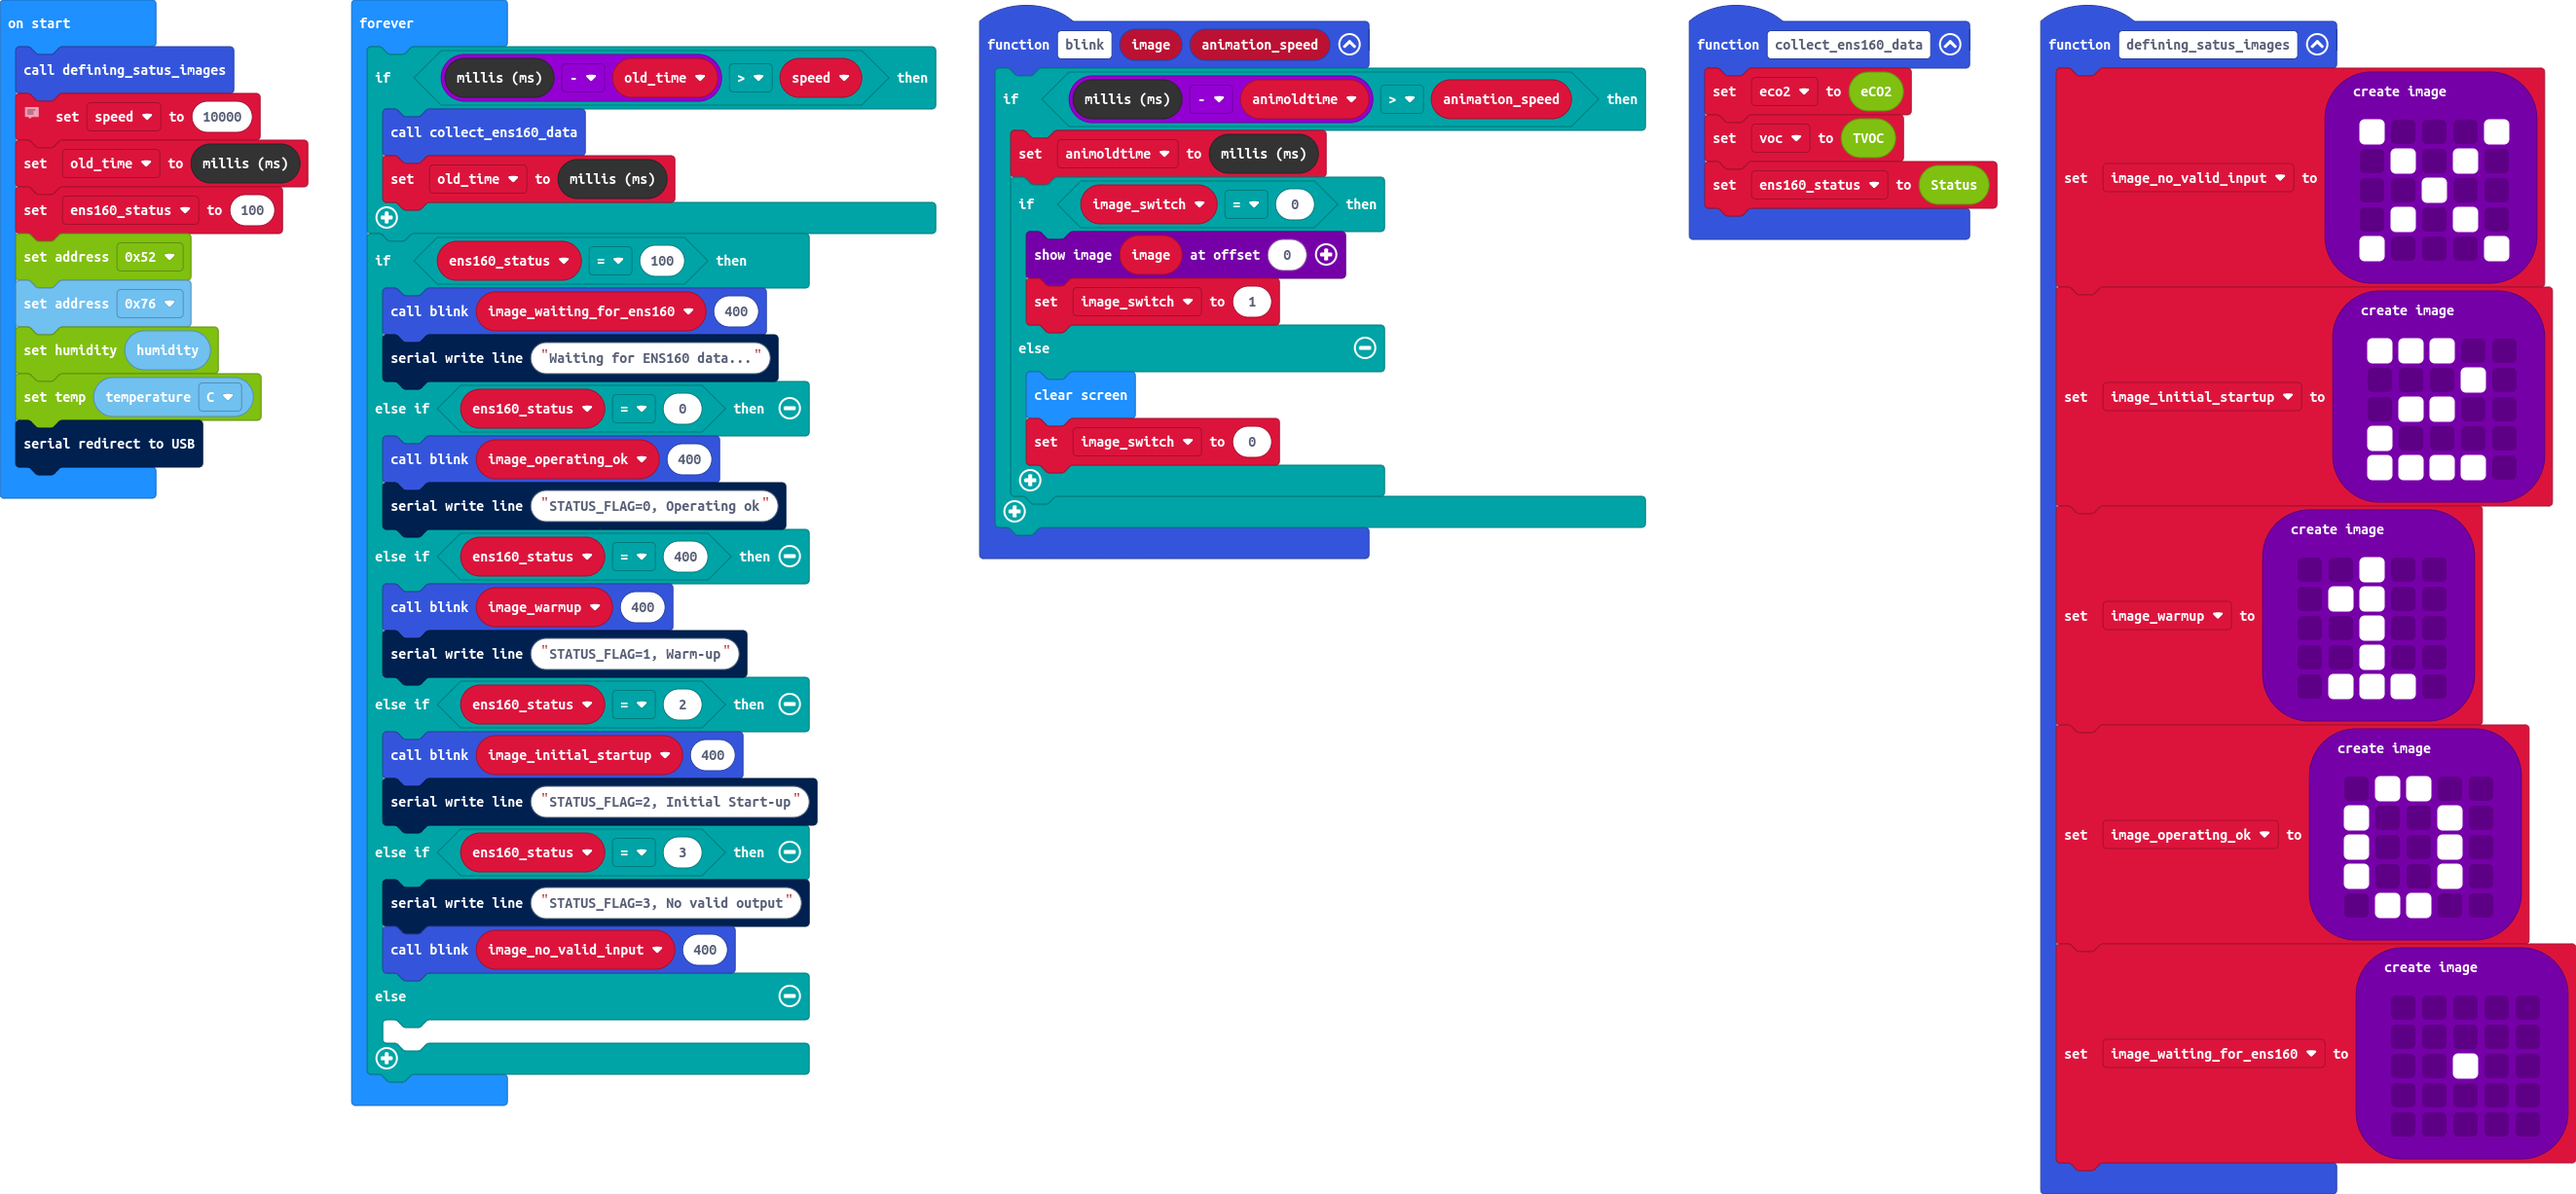
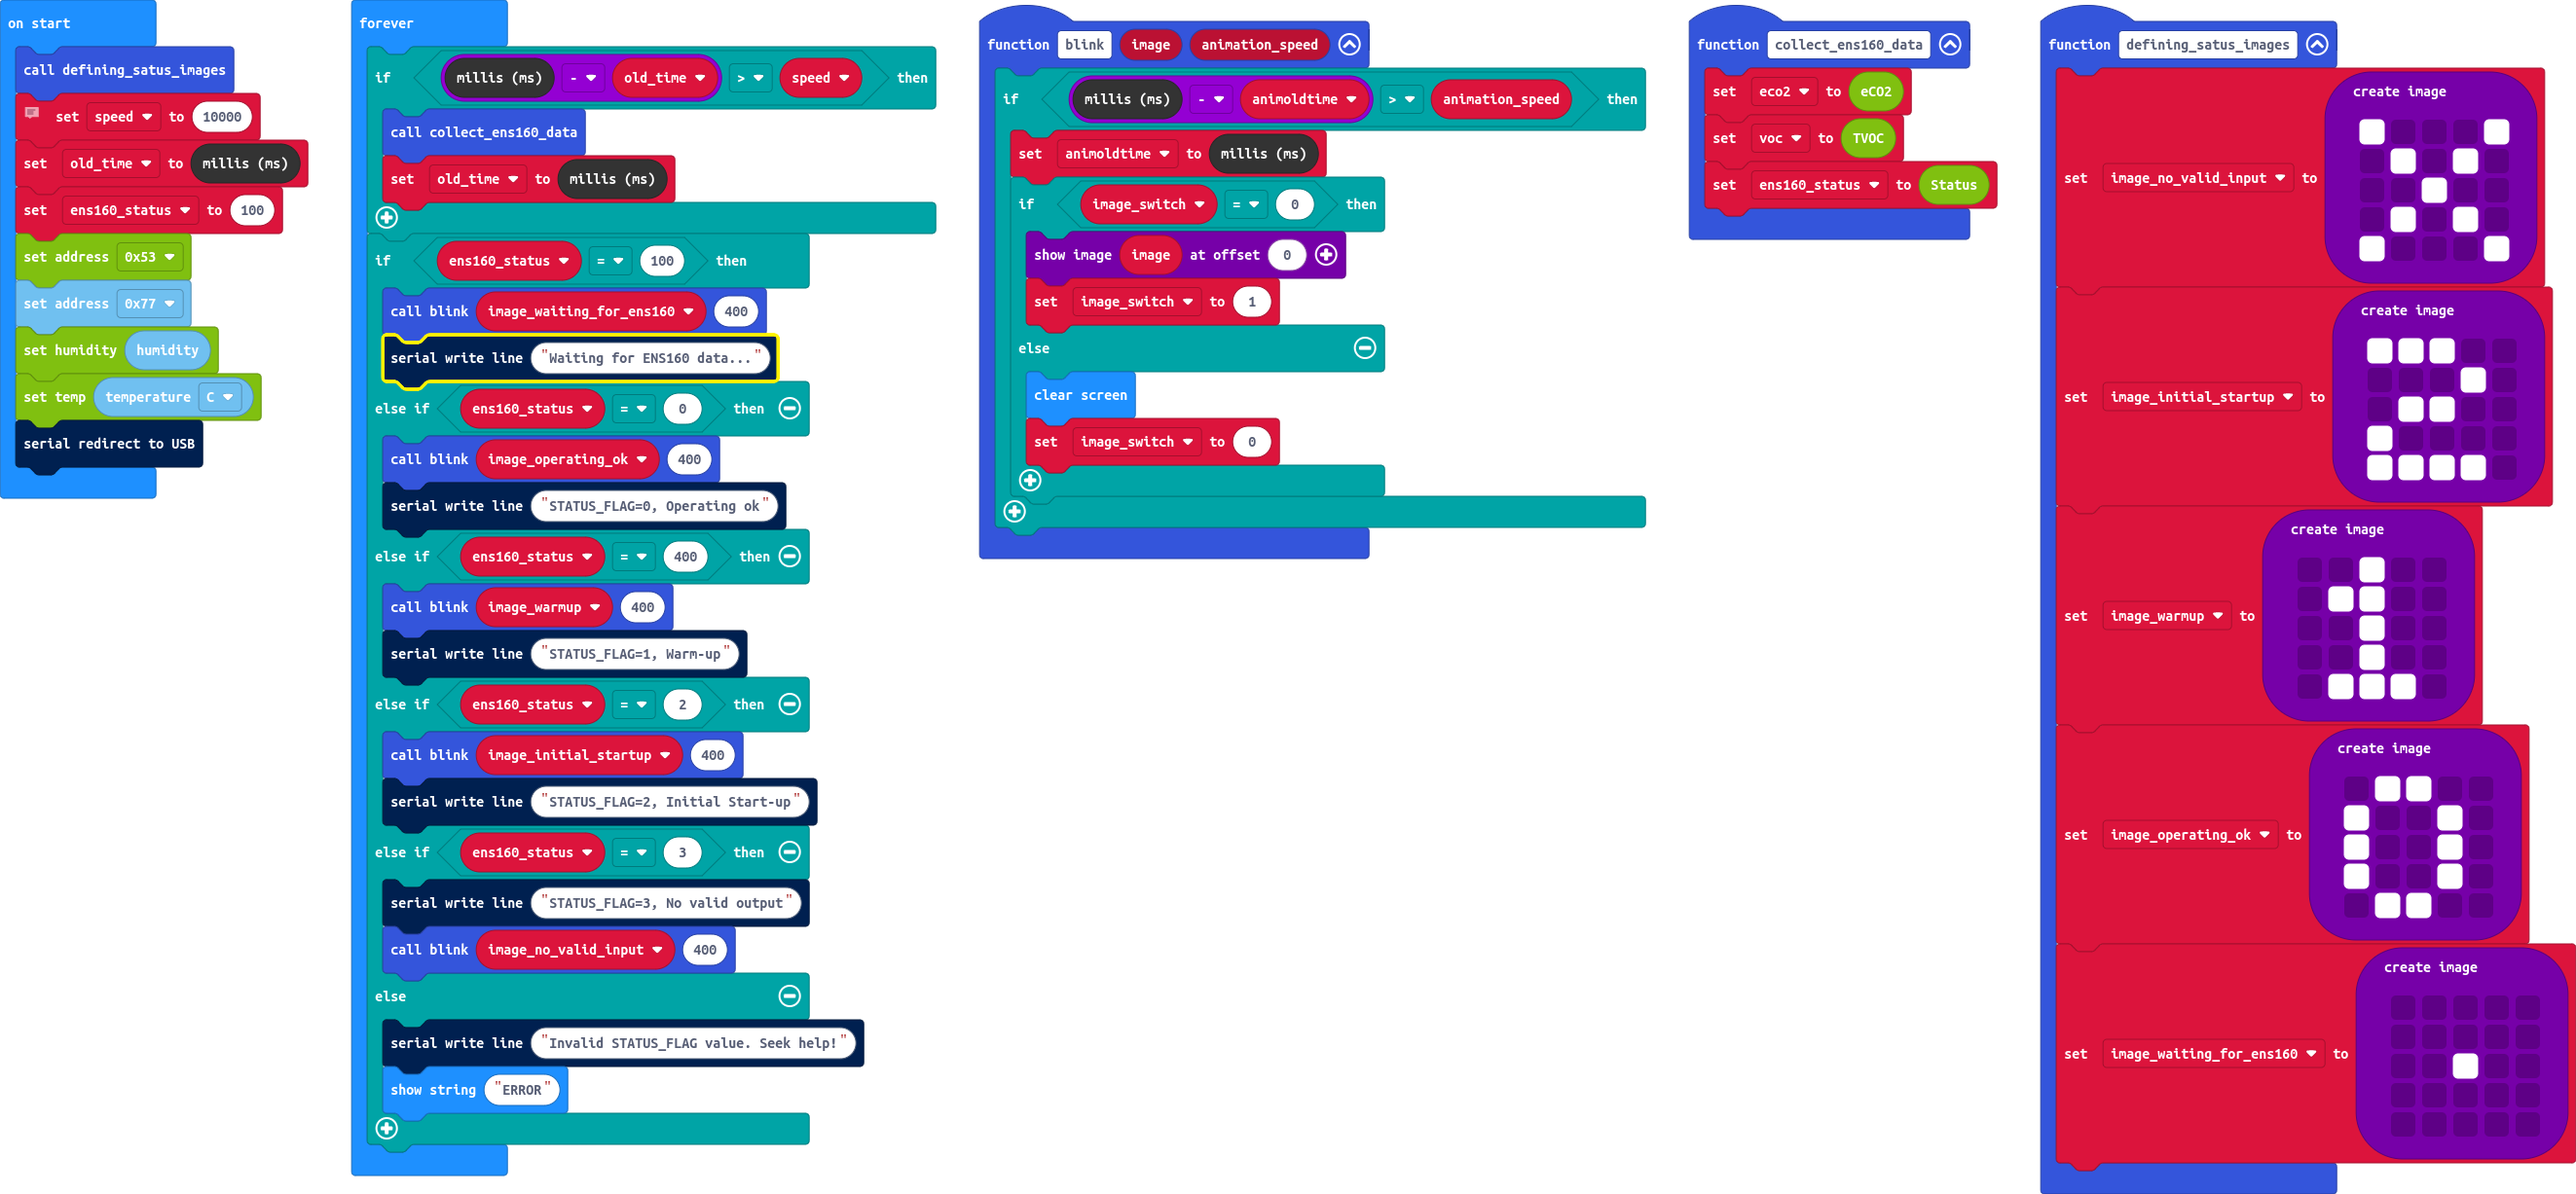
Set correct addresses

Changed region(s): [[0.124, 0.8362, 0.3409, 0.991], [0.155, 0.2787, 0.3099, 0.3407]]

diff --git a/main.ts b/main.ts
@@ -67,8 +67,8 @@ defining_satus_images()
 let speed = 10000
 let old_time = control.millis()
 ens160_status = 100
-ENS160.Address(ENS160_I2C_ADDRESS.ADDR_0x52)
-BME280.Address(BME280_I2C_ADDRESS.ADDR_0x76)
+ENS160.Address(ENS160_I2C_ADDRESS.ADDR_0x53)
+BME280.Address(BME280_I2C_ADDRESS.ADDR_0x77)
 ENS160.SetHumidity(BME280.humidity())
 ENS160.SetTemp(BME280.temperature(BME280_T.T_C))
 serial.redirectToUSB()
@@ -93,7 +93,7 @@ basic.forever(function () {
         serial.writeLine("STATUS_FLAG=3, No valid output")
         blink(image_no_valid_input, 400)
     } else {
-    	serial.writeLine("Invalid STATUS_FLAG value. Seek help!")
+        serial.writeLine("Invalid STATUS_FLAG value. Seek help!")
         basic.showString("ERROR")
     }
 })
